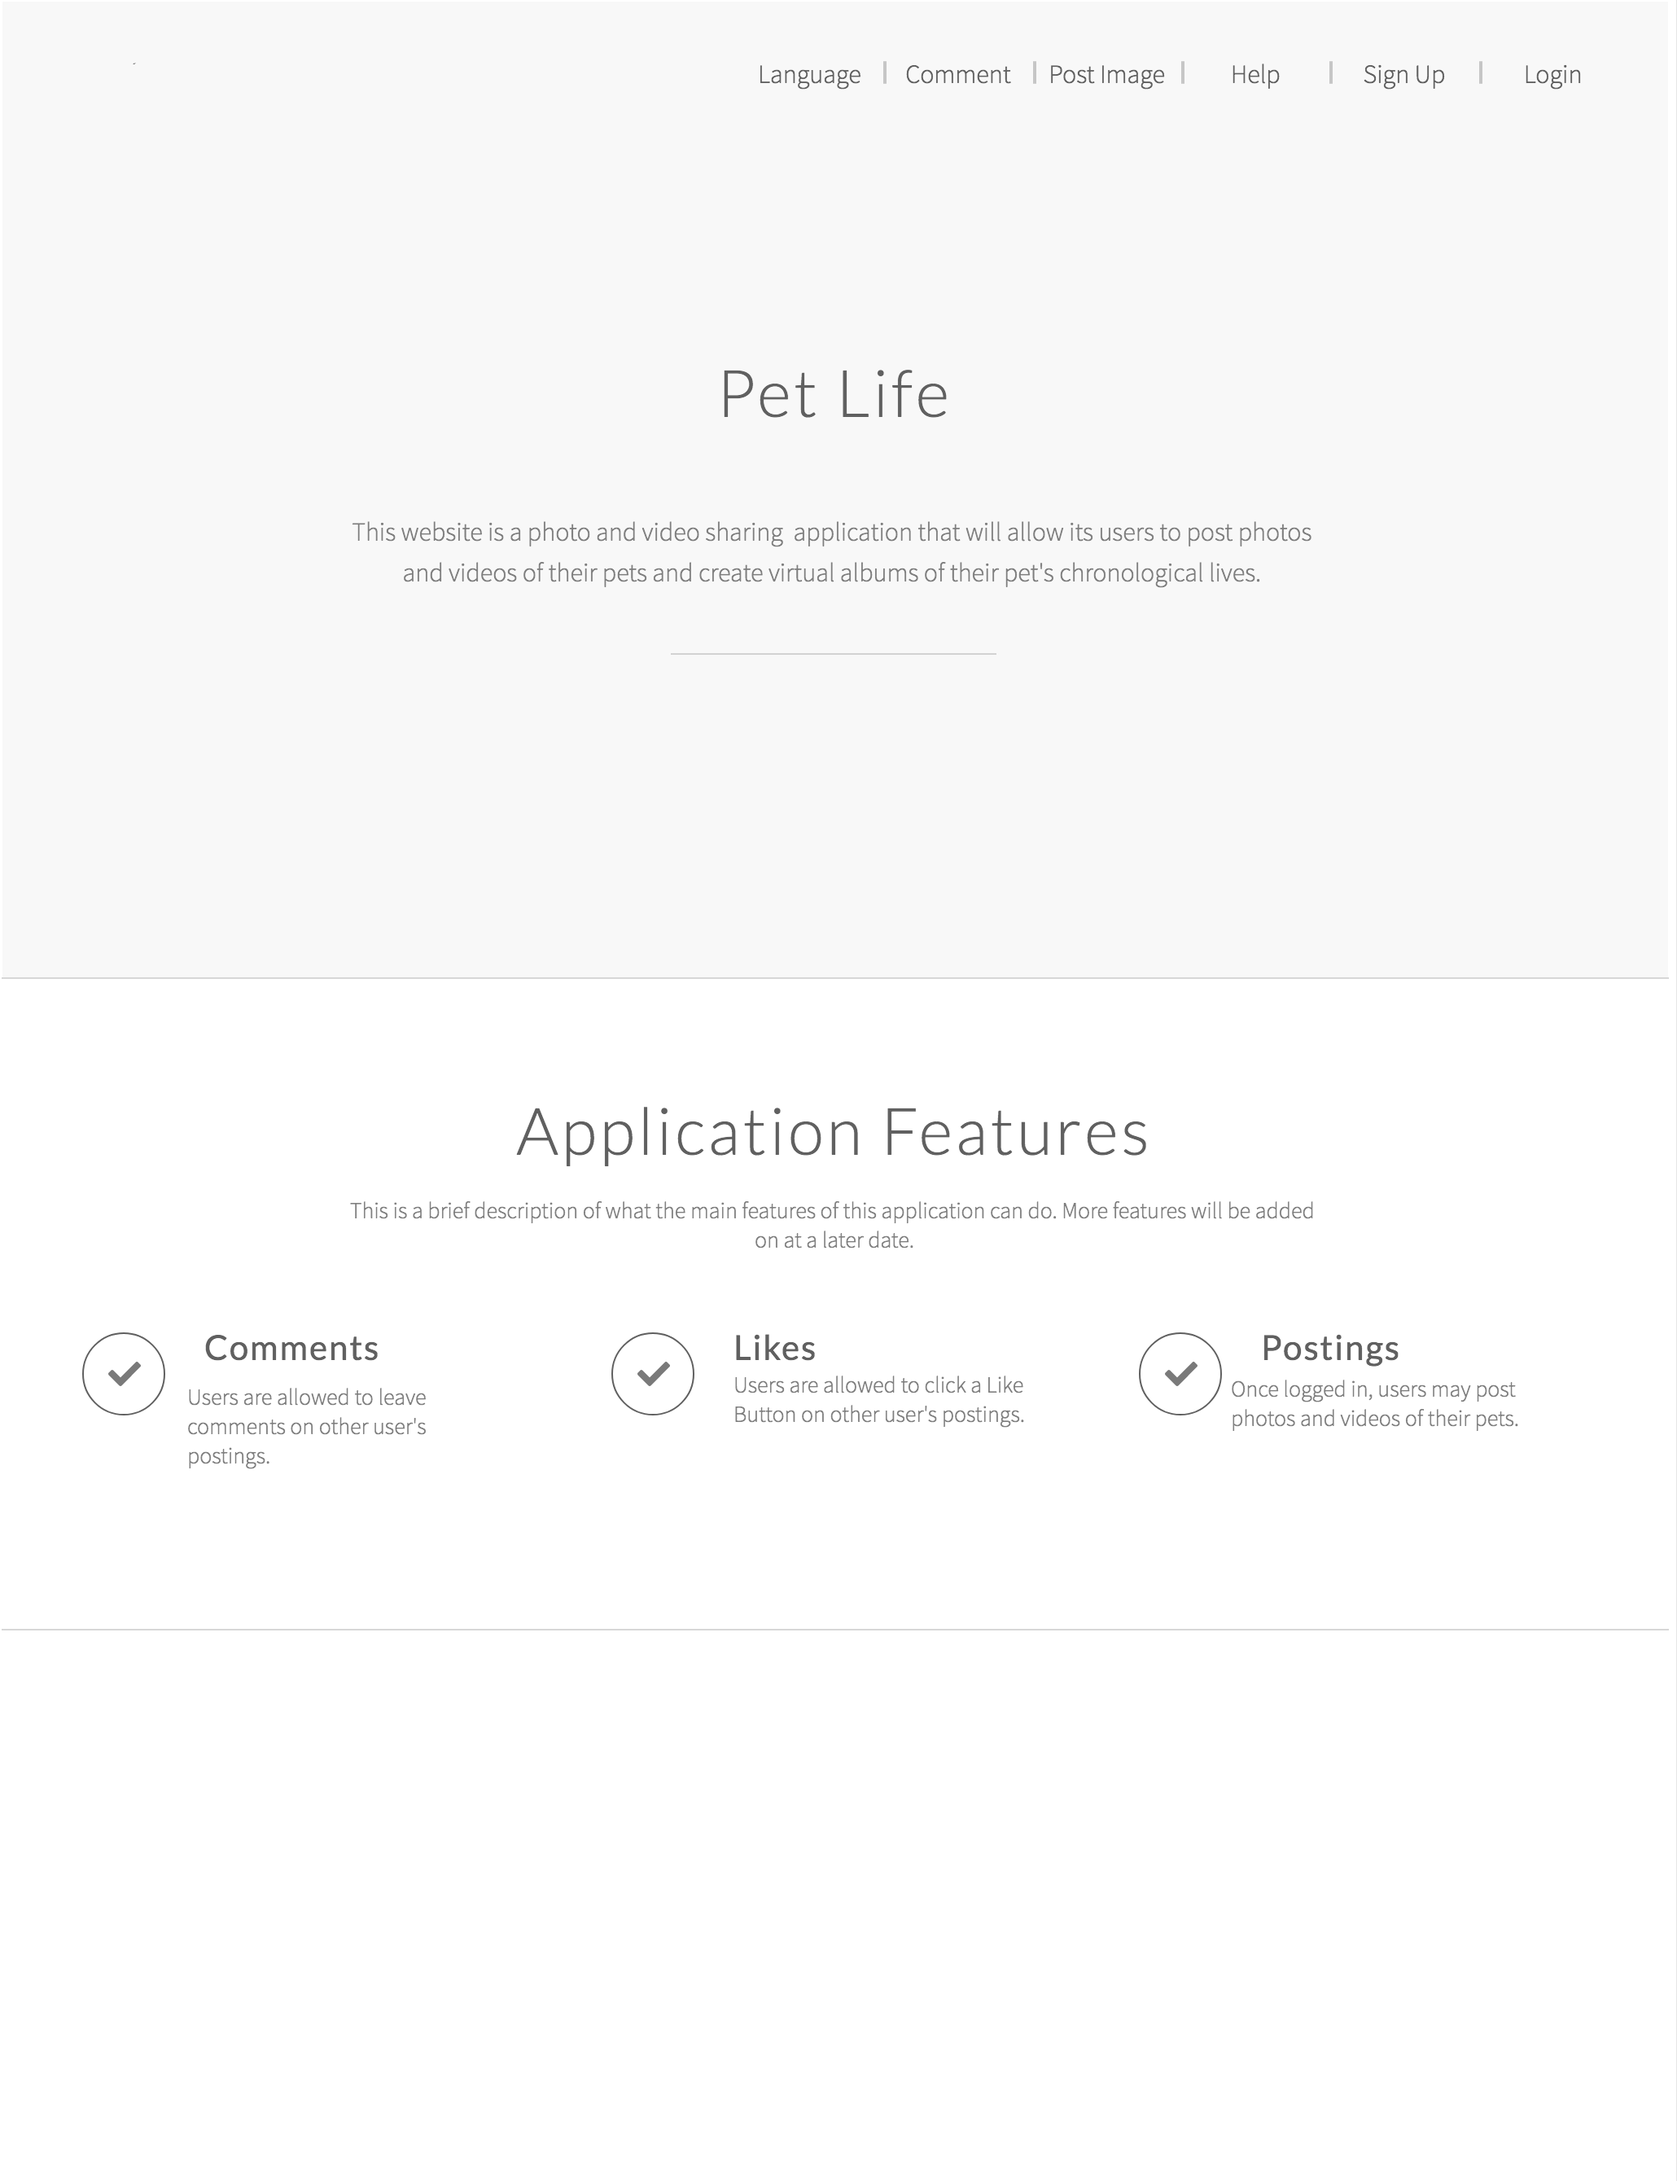
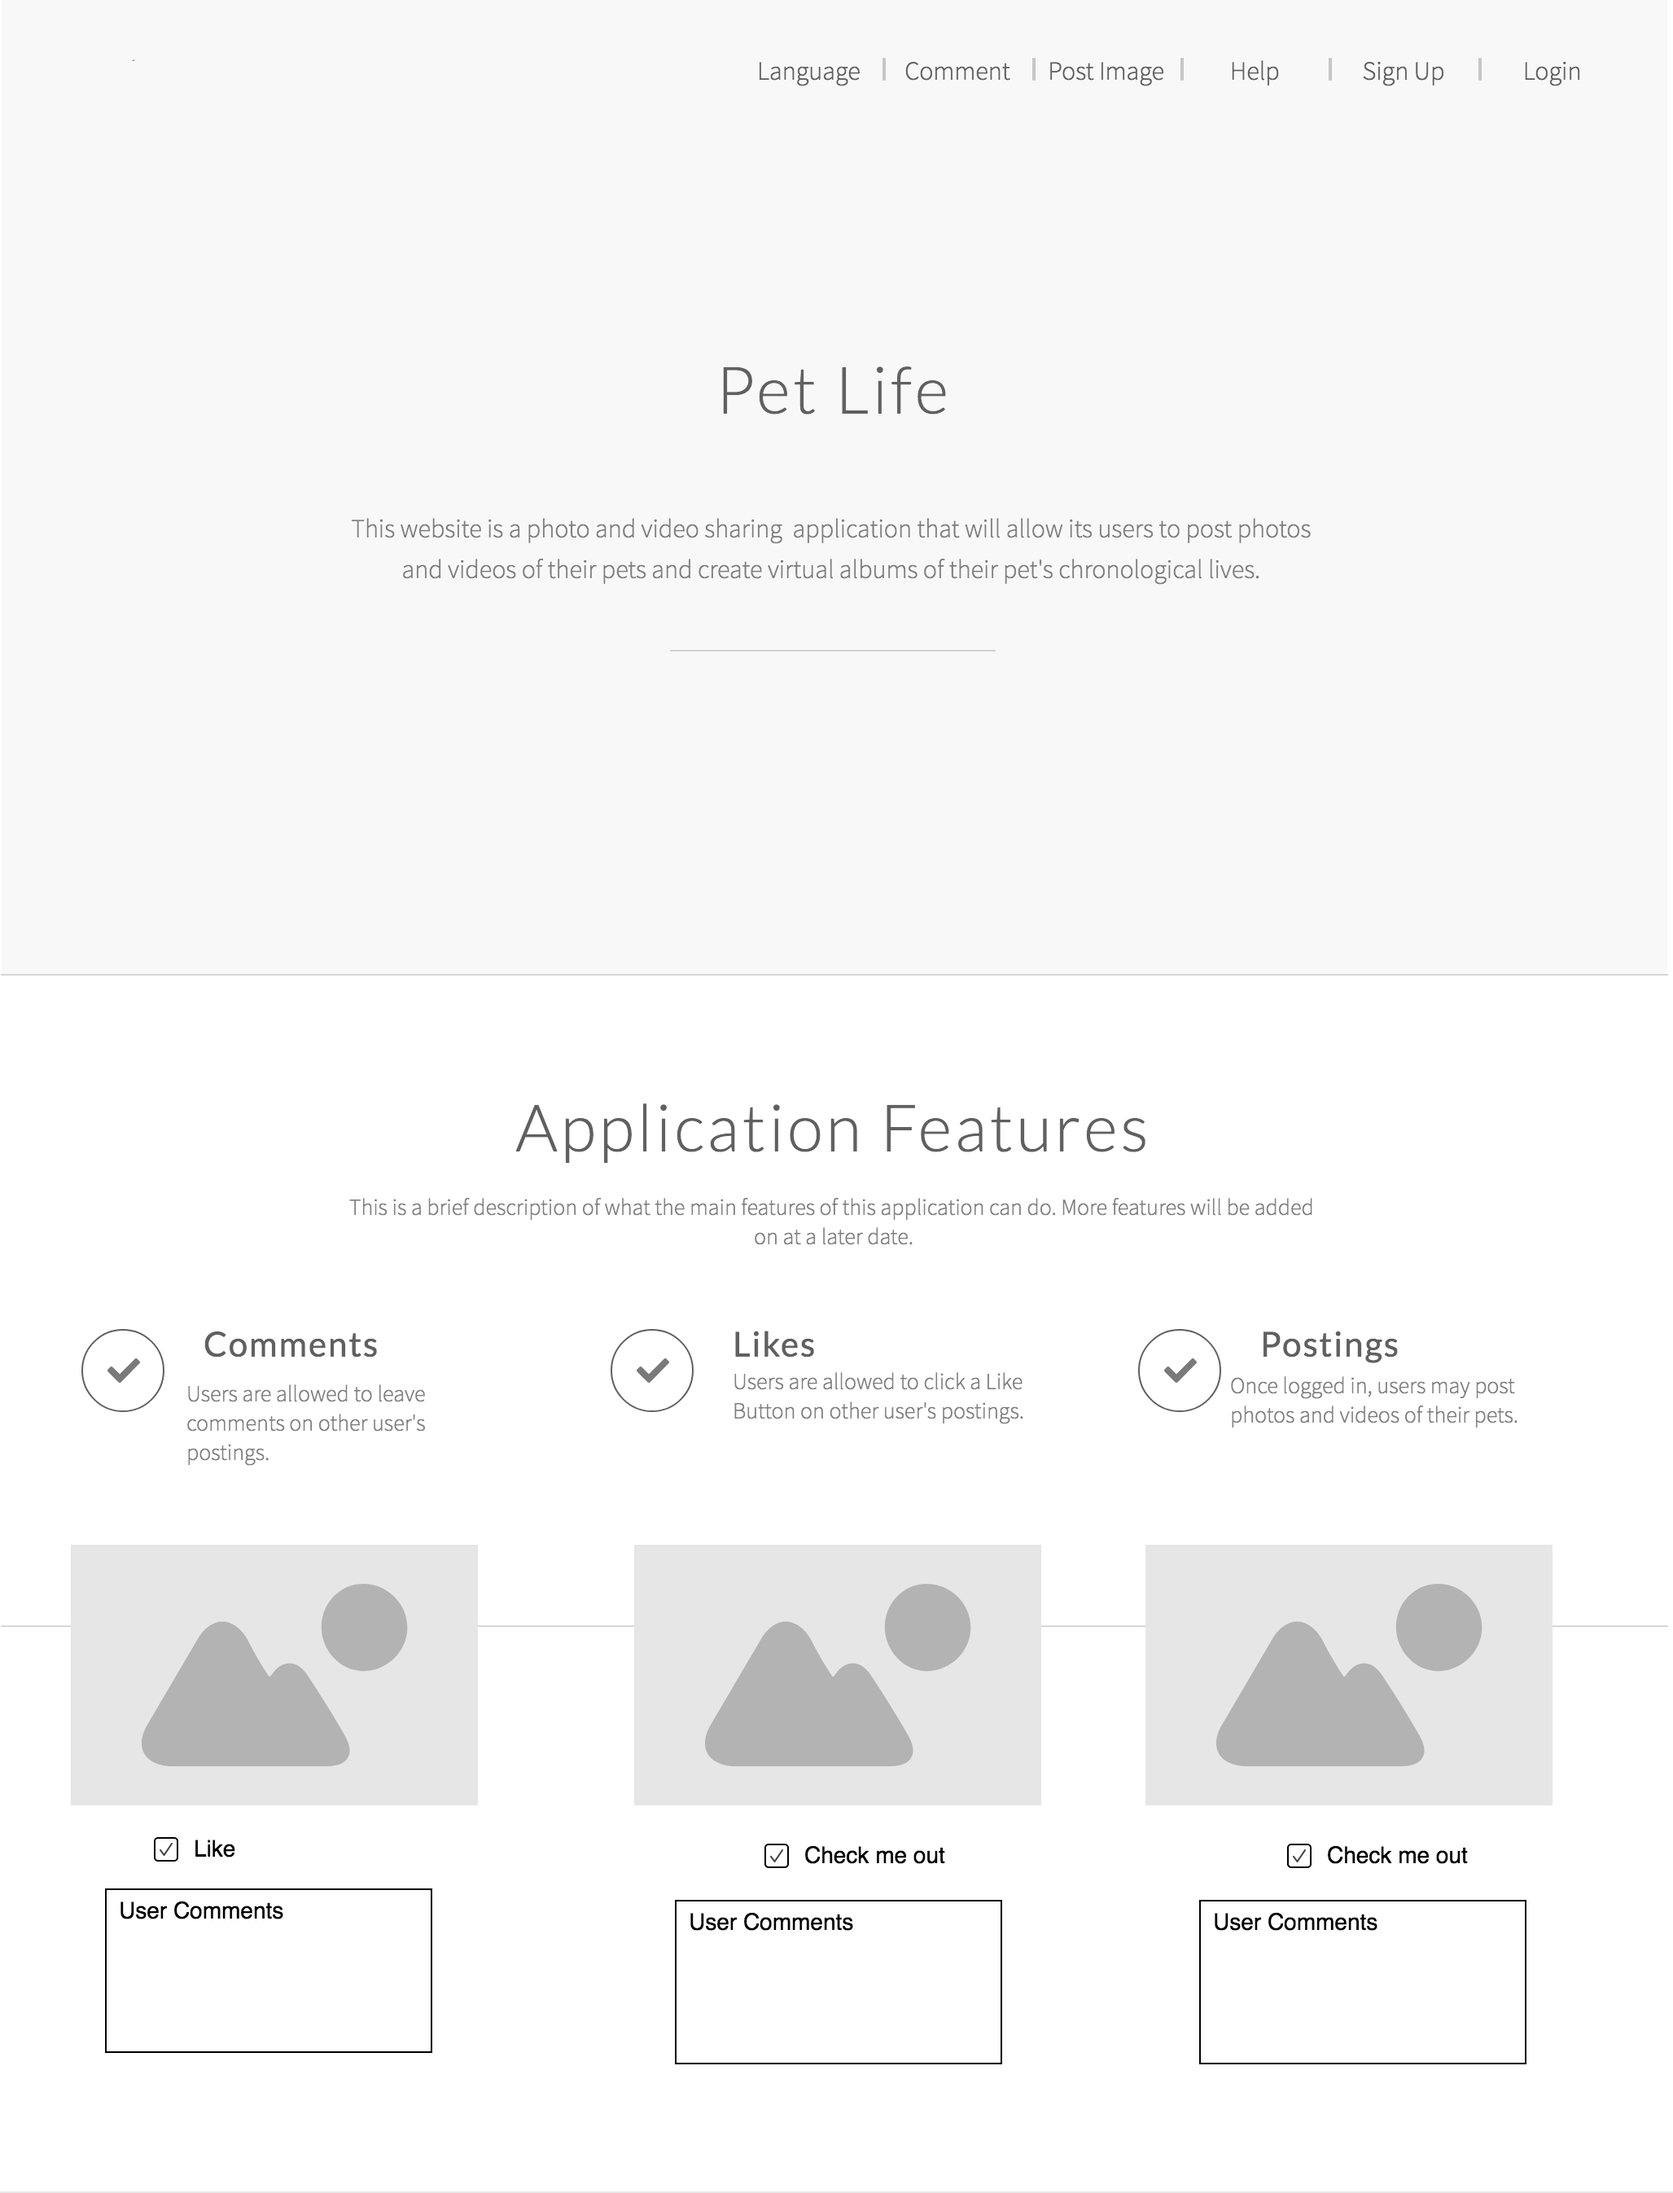
update mock up

diff --git a/README.md b/README.md
@@ -23,6 +23,8 @@ Github - https://github.com/weidai07/PetLife
 
 This program is designed to allow users to add photos of their pets so they can have a live photo album of their pet's life. Please see attached project structure diagram.  
 
+![Project Mock Up](/MockUp.png)
+
 ![Project Structure Diagram](/Capstone.png)
 
 Name of Project: PetLife
